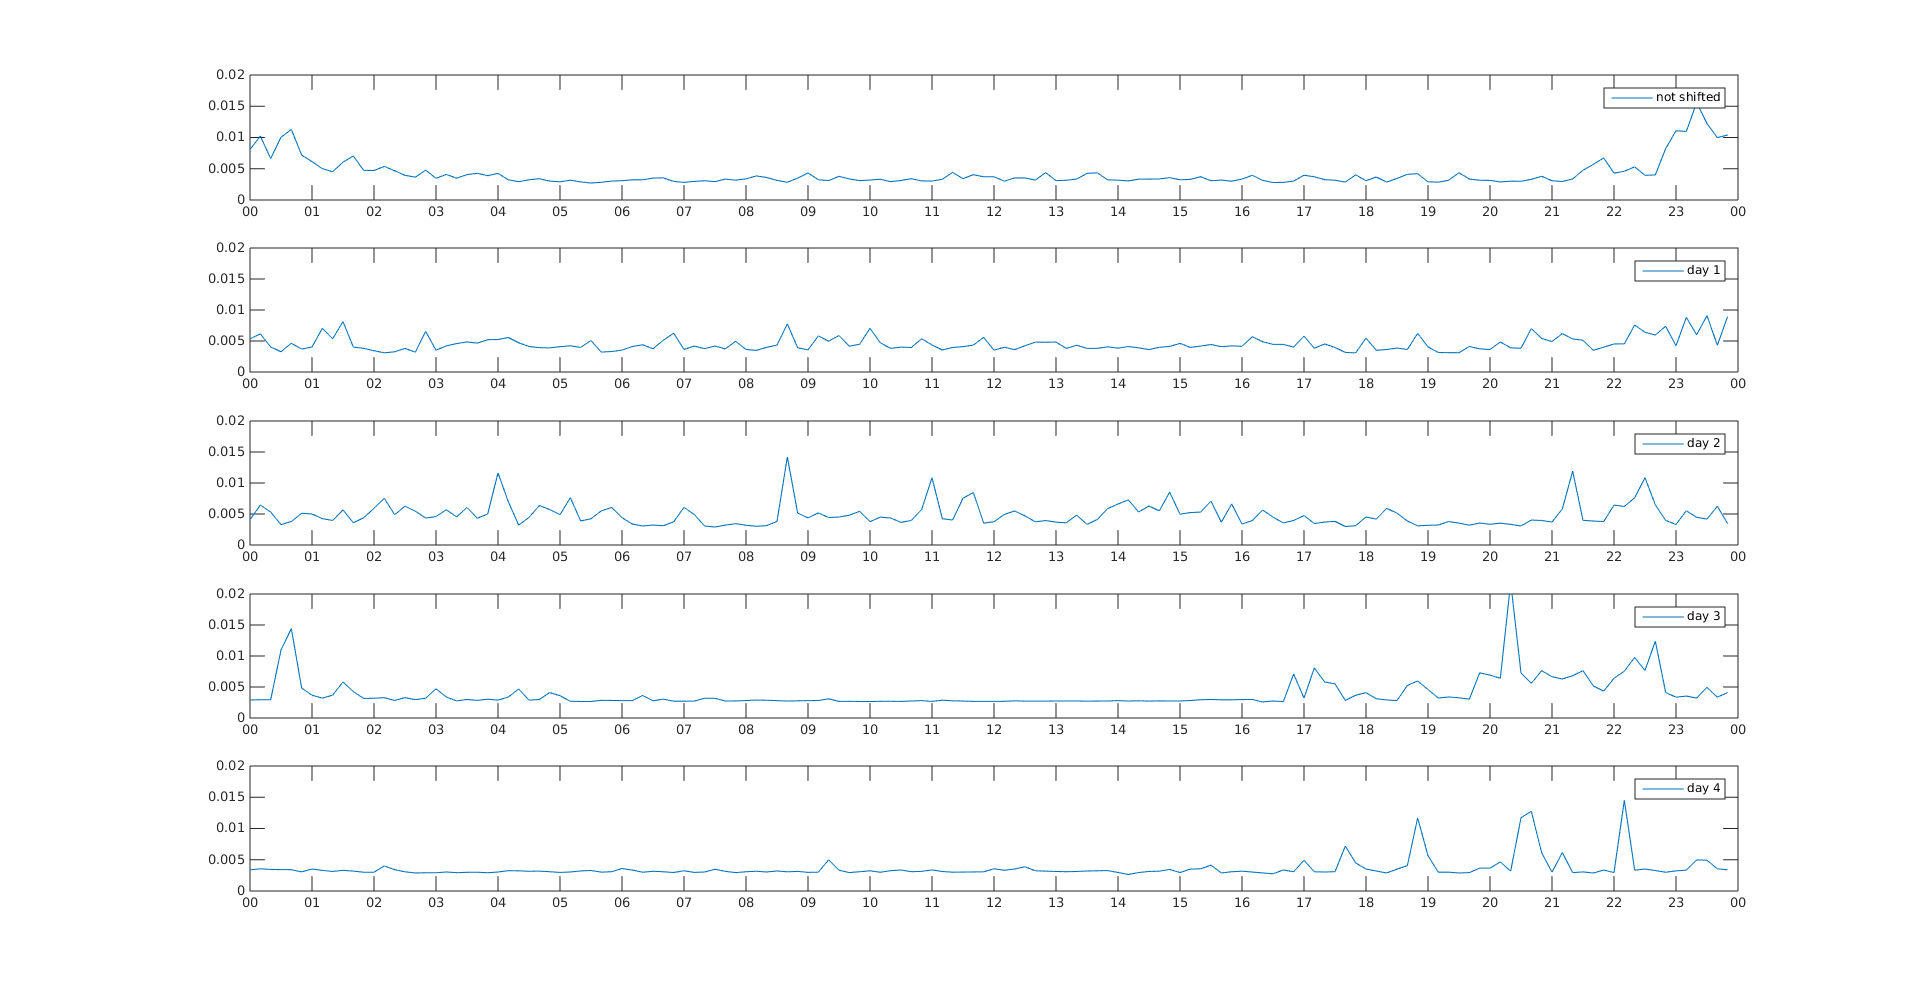
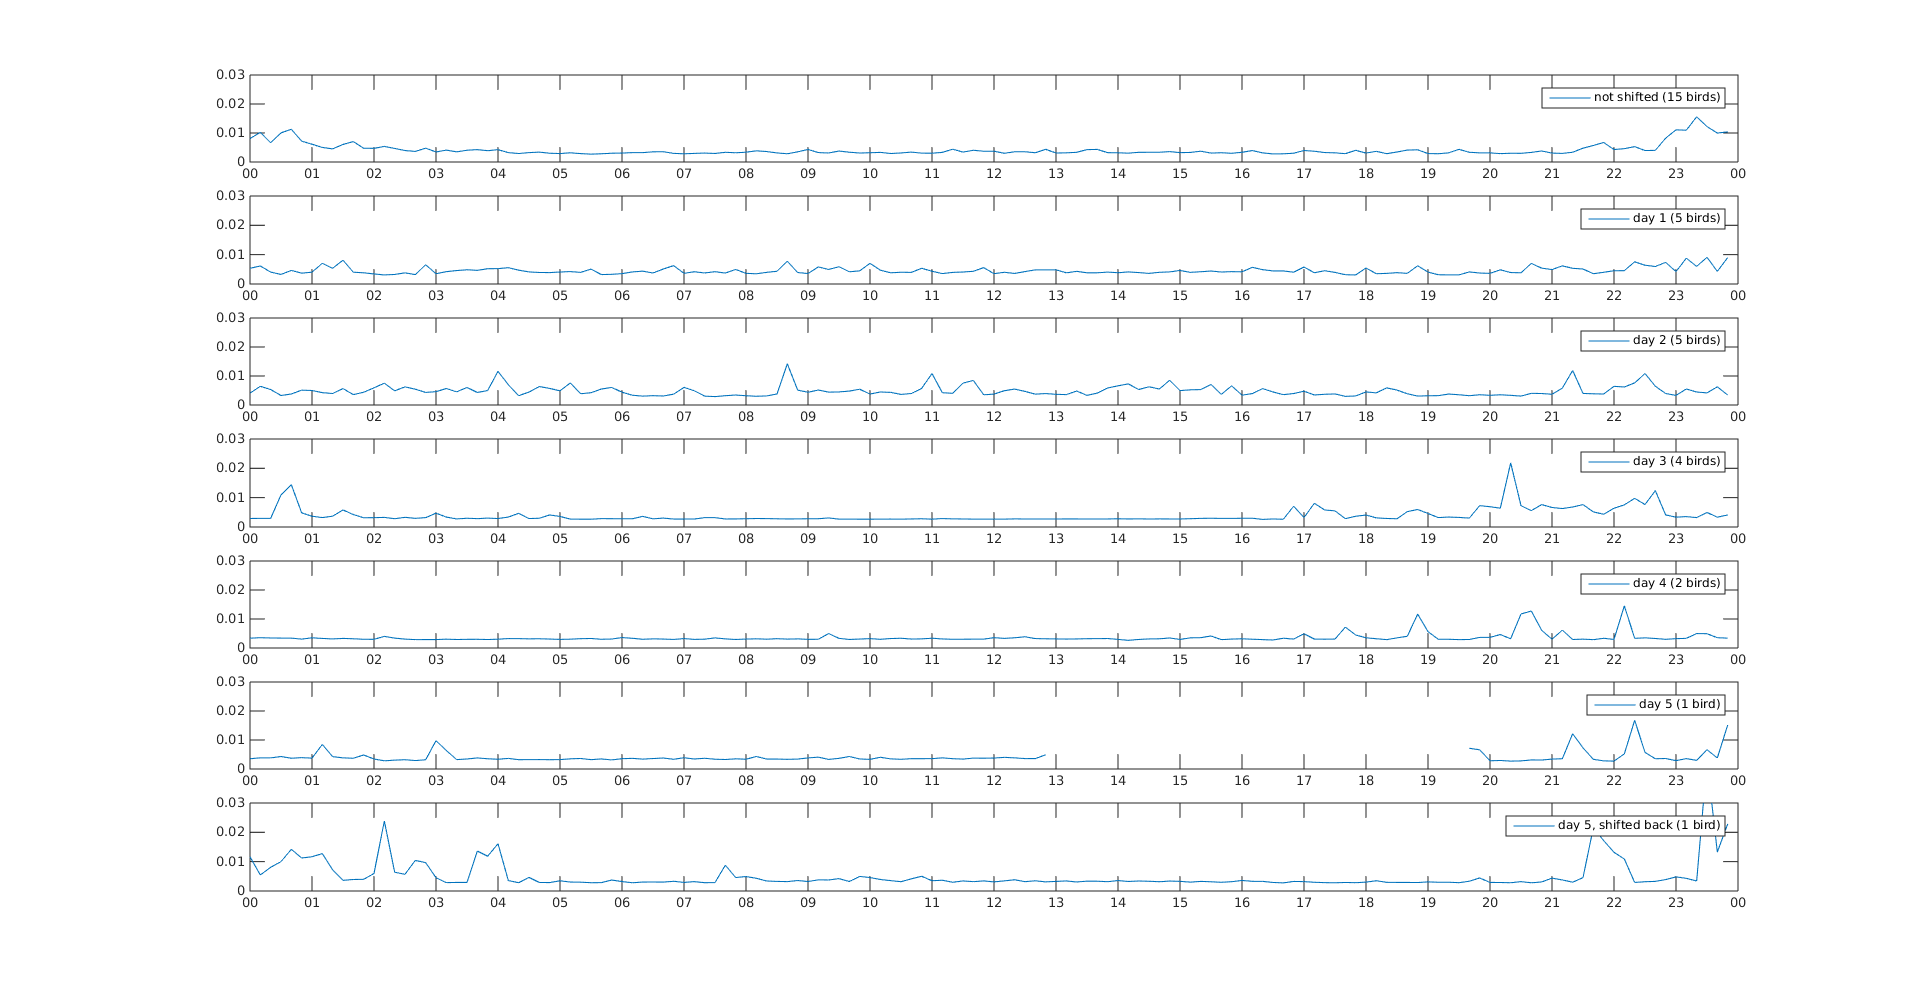
added and fixed more aids pictures with ebola and bird flu stuffherp fucking derp SJOERD STRESSSSS JE GAAT DE TREIN NIET HALEN U MAD FGT

diff --git a/test_shift.m b/test_shift.m
@@ -7,6 +7,8 @@
 % E.g., shift = [-10, -20, -30, -40] shifts the birds with a 6min interval
 % 1 hour to the left for the birds that have been shifted 1 day,
 % 2 hours to the left for the birds that have been shifted 2 days, etc.
+%
+% The shift is basically the number of intervals that you want to shift!
 function test_shift(filename, shift)
 	% Plot the averages of shifted, and day 1, 2, 3, 4 shifted
 	dataset = dlmread(filename, ',', 0, 0);
@@ -33,7 +35,7 @@ function test_shift(filename, shift)
 	% Extra day?
 	shifted_5 = dataset([9], :);
 
-	% And some data that has been unshifted... herp?
+	% And some data that has been unshifted... derp?
 	shifted_back = dataset([20], :);
 
 	% add time
@@ -42,48 +44,60 @@ function test_shift(filename, shift)
 	interval = (24 * 60 * 60) / n
 
 	for j=1:n
-	    X(j) = t;
-	    t = addtodate(t, interval, 'second');
-    end
+		X(j) = t;
+		t = addtodate(t, interval, 'second');
+	end
 
-    % Plot aids and ebola with bird flu
-    figure;
-    hold on;
-    numplots = 5;
-    ymax = 0.02
+	% Plot aids and ebola with bird flu
+	figure;
+	hold on;
+	numplots = 7;
+	ymax = 0.03
 
-    subplot(numplots, 1, 1)
+	subplot(numplots, 1, 1)
 	plot(X, nanmean(not_shifted(:, 8:end)));
 	datetick('x', 'HH');
 	ylim([0, ymax])
-    legend('not shifted');
+	legend('not shifted (15 birds)');
 
-    subplot(numplots, 1, 2)
+	subplot(numplots, 1, 2)
 	plot(X, circshift(nanmean(shifted_1(:, 8:end)), [0, shift(1)]));
 	datetick('x', 'HH');
 	ylim([0, ymax])
-    legend('day 1');
+	legend('day 1 (5 birds)');
 
-    subplot(numplots, 1, 3)
+	subplot(numplots, 1, 3)
 	plot(X, circshift(nanmean(shifted_2(:, 8:end)), [0, shift(2)]));
 	datetick('x', 'HH');
 	ylim([0, ymax])
-    legend('day 2');
+	legend('day 2 (5 birds)');
 
-    subplot(numplots, 1, 4)
+	subplot(numplots, 1, 4)
 	plot(X, circshift(nanmean(shifted_3(:, 8:end)), [0, shift(3)]));
 	datetick('x', 'HH');
 	ylim([0, ymax])
-    legend('day 3');
+	legend('day 3 (4 birds)');
 
-    subplot(numplots, 1, 5)
+	subplot(numplots, 1, 5)
 	plot(X, circshift(nanmean(shifted_4(:, 8:end)), [0, shift(4)]))
 	datetick('x', 'HH');
 	ylim([0, ymax])
-    legend('day 4');
+	legend('day 4 (2 birds)');
+
+	subplot(numplots, 1, 6)
+	plot(X, circshift(shifted_5(:, 8:end), [0, shift(5)]))
+	datetick('x', 'HH');
+	ylim([0, ymax])
+	legend('day 5 (1 bird)');
+
+	subplot(numplots, 1, 7)
+	plot(X, circshift(shifted_back(:, 8:end), [0, shift(6)]))
+	datetick('x', 'HH');
+	ylim([0, ymax])
+	legend('day 5, shifted back (1 bird)');
 
 	% plot(X, nanmean(shifted_5(:, 8:end)));
 	% plot(X, nanmean(shifted_back(:, 8:end)));
-    % legend(strtrim(cellstr(num2str(not_shifted(:,1:4)))'));
-    % legend('not shifted', 'day 1', 'day 2', 'day 3', 'day 4', 'day 5', 'shifted back');
-    hold off;
+	% legend(strtrim(cellstr(num2str(not_shifted(:,1:4)))'));
+	% legend('not shifted', 'day 1', 'day 2', 'day 3', 'day 4', 'day 5', 'shifted back');
+	hold off;

diff --git a/genfeatures.m b/genfeatures.m
@@ -14,7 +14,7 @@ function genfeatures(interval, t_skip, t_length, feature_function, output_file)
 	file_pattern = '.([a-zA-Z0-9])+_(\d{4})(\d{2})(\d{2})_recstart(\d{2})(\d{2}).*';
 	fp_csv = fopen(output_file, 'w');
 
-	% cd('/media/kevin/DATA/vogel_audio/Recordings_fixed/');
+	cd('/media/kevin/DATA/vogel_audio/Recordings_fixed/');
 	files = dir('*.wav');
 	index = 1;
 	files_length = length(files);

diff --git a/plot_csv.m b/plot_csv.m
@@ -19,10 +19,12 @@ function plot_dataset(filename)
 	size(not_shifted)
 
 	plot(X, not_shifted(:, 8:end));
+	title('Not shifted')
 	% legend(strtrim(cellstr(num2str(not_shifted(:,1:4)))'));
 	datetick('x', 'HH');
 	figure;
 	plot(X, shifted(:, 8:end));
+	title('Shifted')
 	% legend(strtrim(cellstr(num2str(shifted(:,1:4)))'));
 	datetick('x', 'HH');
 end

diff --git a/plot_csv_avg.m b/plot_csv_avg.m
@@ -23,6 +23,6 @@ function plot_dataset(filename)
 	plot(X, nanmean(shifted(:, 8:end)));
 	hold off
 	% legend(strtrim(cellstr(num2str(shifted(:,1:4)))'));
-	legend('not_shifted avg', 'shifted avg');
+	legend('not-shifted avg', 'shifted avg');
 	datetick('x', 'HH');
 end
